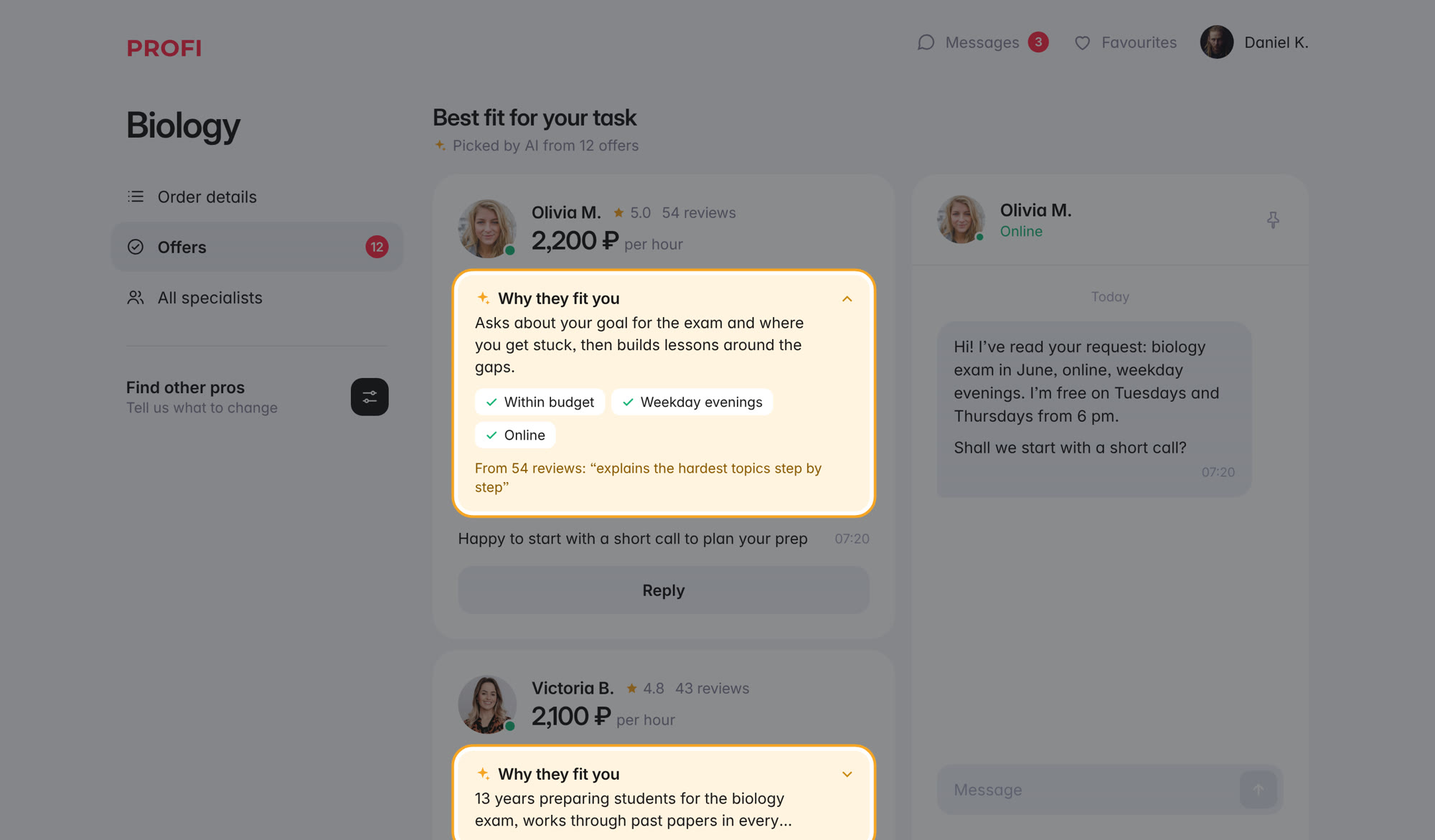
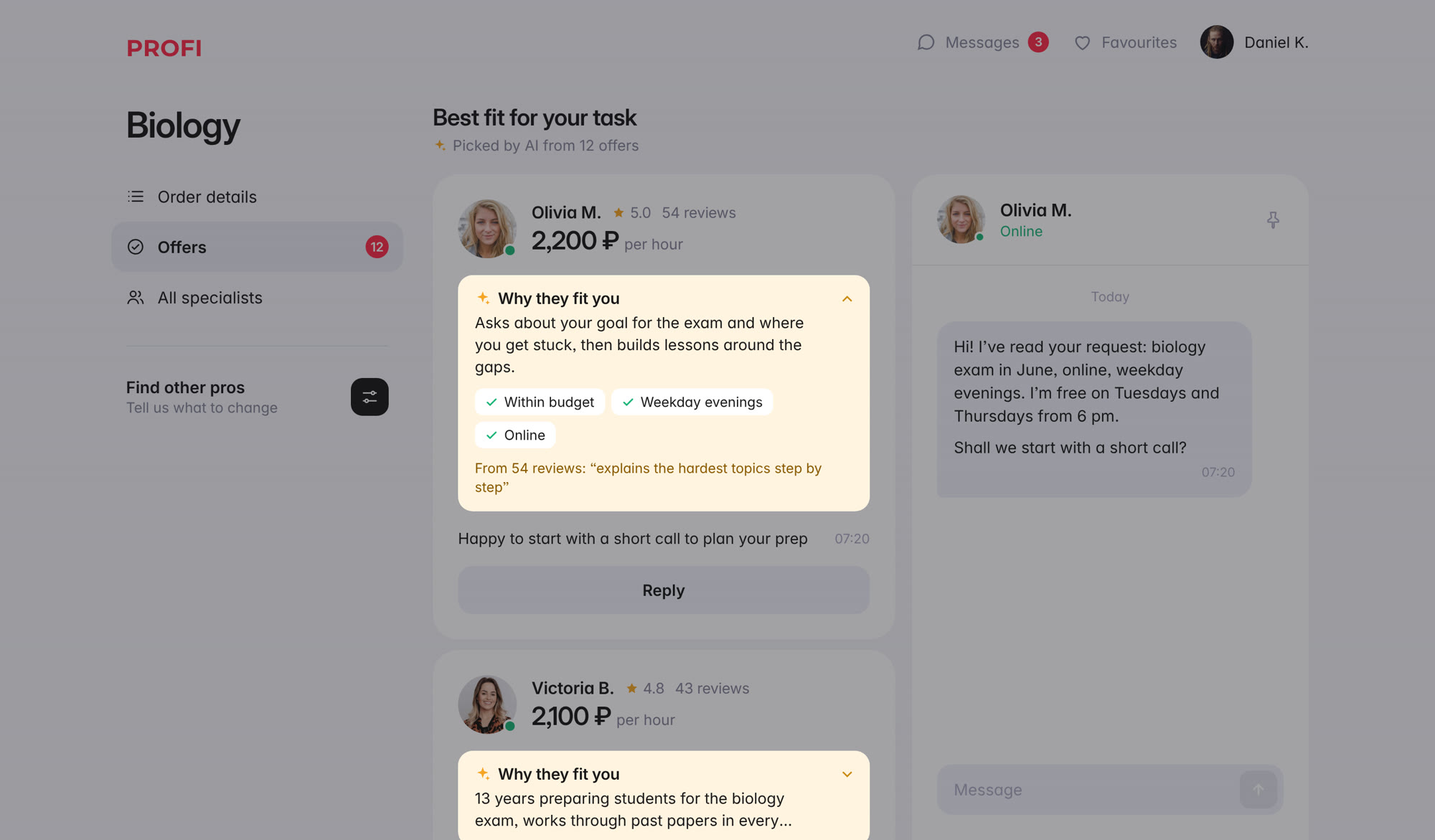
Profi case: cleaner spotlights, full-height mobile list, outcome order, balanced results labels, AI badge
Claude-Session: https://claude.ai/code/session_014rJndXE327eq2XizYZCGT6

diff --git a/case-profi.html b/case-profi.html
@@ -436,7 +436,7 @@ html.vt .item.gl-on .asset video{opacity:1!important}
   </section>
   <section class="panel">
     <p class="lbl gray">Results</p>
-    <div class="nums four"><div><b>+23.5%</b><p class="lbl">Client-to-contact<br class="mbr"> conversion</p></div><div><b>+21%</b><p class="lbl">First<br class="mbr"> shortlist</p></div><div><b>4</b><p class="lbl">Design stages,<br class="mbr"> each A/B tested</p></div><div><b>3</b><p class="lbl">Platforms: web, mobile<br class="mbr"> web, and iOS</p></div></div>
+    <div class="nums four"><div><b>+23.5%</b><p class="lbl">Client-to-contact<br>conversion</p></div><div><b>+21%</b><p class="lbl">First shortlist,<br>iteration I</p></div><div><b>4</b><p class="lbl">Iterations, each<br>A/B tested</p></div><div><b>3</b><p class="lbl">Platforms: web,<br>mobile web, and iOS</p></div></div>
   </section>
   <section class="study">
     <p class="lbl gray">Case study</p>
@@ -466,7 +466,7 @@ html.vt .item.gl-on .asset video{opacity:1!important}
 .syn[data-p="1"]{--ac:#8fb3ff}
 .syn .tb{display:flex;align-items:center;gap:12px;padding:12px 12px 12px 20px;border-bottom:1px solid var(--kl)}
 .syn .tb b{font-weight:600}
-.syn .tb small{font-size:.86em;color:var(--kg)}
+.syn .tb small{font-size:.72em;font-weight:600;letter-spacing:.04em;line-height:1;color:#f5b641;background:rgba(245,182,65,.13);padding:.35em .55em;border-radius:5px}
 .syn .md{display:flex;gap:2px;margin-left:auto;white-space:nowrap;background:var(--k1);border-radius:10px;padding:3px}
 .syn .md button{padding:.4em .85em;border-radius:7px;color:var(--kg);font-size:.9em}
 .syn .md button:hover{color:var(--kt)}
@@ -503,7 +503,7 @@ html.vt .item.gl-on .asset video{opacity:1!important}
  .syn .log{padding:18px 16px;max-height:none}.syn .sg{padding:0 16px 18px}.syn .cv{min-height:400px}
 }
 /* stages */
-.ch{margin-top:calc(10*var(--u))}
+.ch{margin-top:calc(56*var(--u))}
 .cb{display:grid;grid-template-columns:repeat(4,1fr);gap:calc(14*var(--u));align-items:end;max-width:calc(560*var(--u))}
 .cb>div{position:relative;display:flex;flex-direction:column;justify-content:flex-end;outline:none}
 .cb i{display:block;width:calc(40*var(--u));min-width:28px;background:#b9b7b0;border-radius:4px 4px 0 0;transition:opacity .2s}
@@ -532,7 +532,7 @@ html.vt .item.gl-on .asset video{opacity:1!important}
 @media (max-width:700px){.pair{grid-template-columns:1fr;gap:16px}.pair img.m{width:62%;justify-self:center}.cb{gap:10px}.ch .n{font-size:12px}.track{padding:0;grid-template-columns:1fr 1fr;row-gap:24px;margin-top:56px}.kv{grid-template-columns:1fr;gap:.2em}.kv dd{margin-bottom:.8em}}
 </style>  <section class="chap">
     <div class="ct"><p class="lbl gray">01</p><h3>Synthetic respondents</h3></div>
-    <div><p class="pull">Weak hypotheses died in a chat window, not in a two-week A/B test.</p><div class="body "><p>Before the first iteration we ran nine in-depth interviews with parents and students who had looked for a tutor on Profi, and turned two of them into synthetic respondents: AI personas on Claude, each with a system prompt built from interview quotes, habits and contradictions.</p><p>There were always more hypotheses than A/B slots. The personas let us cut weak ideas in a chat window before they took a test, in three modes: interview, prototype test and hypothesis check. I later packaged the approach as a reusable Claude skill.</p></div><ol class="pipe" aria-label="How a synthetic respondent is built"><li><em>Research</em><b>Interviews</b><span>Nine in-depth interviews</span></li><li class="ai"><em><svg viewBox="0 0 24 24" aria-hidden="true"><path d="M12 1.5l2.2 6.3 6.3 2.2-6.3 2.2L12 18.5l-2.2-6.3L3.5 10l6.3-2.2z"/></svg>AI persona</em><b>Persona prompt</b><span>Quotes, habits and deal-breakers turned into a system prompt</span></li><li class="ai"><em><svg viewBox="0 0 24 24" aria-hidden="true"><path d="M12 1.5l2.2 6.3 6.3 2.2-6.3 2.2L12 18.5l-2.2-6.3L3.5 10l6.3-2.2z"/></svg>AI session</em><b>Session mode</b><span>Interview, prototype test or hypothesis check</span></li><li class="ai"><em><svg viewBox="0 0 24 24" aria-hidden="true"><path d="M12 1.5l2.2 6.3 6.3 2.2-6.3 2.2L12 18.5l-2.2-6.3L3.5 10l6.3-2.2z"/></svg>LLM</em><b>Claude</b><span>Answers in the persona’s voice and pushes back</span></li><li><em>Team</em><b>Decision</b><span>Cut, change or send to A/B</span></li></ol><p class="lbl gray cap pcap">Built with AI end to end: three of five steps run on Claude</p><div class="syn" id="syn"><div class="tb"><b>Synthetic respondents</b><small>on Claude</small><div class="md" role="group" aria-label="Session mode"></div></div><div class="bd"><div class="pp"></div><div class="cv"></div></div></div><p class="lbl gray cap">Try it. Answers on this page paraphrase the personas’ prompts; the real tool runs live on Claude.</p><script>(function(){var P=[{"name": "Oksana", "seg": "Parent, 47", "ctx": "Looking for a maths tutor for her daughter before the final exams", "traits": [["Trusts", "Education, reviews, a friend’s advice"], ["Puts off", "Template offers, prices over 5,000"], ["Decides", "Her daughter has the last word"]], "modes": {"interview": [["How do you usually look for a tutor?", "Honestly? The dream is a friend handing me one: here, take this one. We went through three or four tutors before we found ours, my daughter kept saying she was falling asleep. So now I want to see everyone at once, not just the ones who replied. The last word is hers."], ["What do you think of the offers tutors send you?", "I barely read them. It’s dead information, he didn’t write it himself. Feels like you’re chatting with a bot."]], "prototype": [["Here’s a new screen: three tutors on top, each with “Why they fit you”. What do you do first?", "Photos, then education, then reviews, then price. If the price says 5,000 I’m gone, you can find one for 2,500. And where do I save the two I like? I want to show them to my daughter, right now I take screenshots."]], "hypothesis": [["Idea: AI picks three tutors and writes a short note on why each one fits. Would you write to one of them?", "If the note says something real, education, reviews, how they are with kids, then yes, that’s exactly “bring it to me on a plate”. If it says “a perfect fit for you”, I scroll past. That’s the same dead text as the offers."]]}}, {"name": "Roman", "seg": "Student, 17", "ctx": "Preparing for computer science and physics exams on his own, on his phone", "traits": [["Trusts", "Proven exam results, a 4.8 to 4.9 rating"], ["Puts off", "Auto-replies, reviews without results"], ["Decides", "Alone, in about fifteen minutes"]], "modes": {"interview": [["How do you choose between tutors?", "Systematically. Reviews and rating first, then who they are and their education, then price, then experience, photo last. About five profiles in fifteen minutes."], ["Why don’t you open the offers?", "Eight people wrote within a minute. Obviously an auto-reply."]], "prototype": [["Here’s the same screen on mobile. What do you look at?", "Rating and number of reviews. A 5.0 means he adapts to everyone, a 4.9 means he has character. Then I want a trial lesson. Writing the first message is a big step, I’d rather close the tab and ask my classmates."]], "hypothesis": [["Idea: AI picks three tutors and writes a short note on why each one fits. Would you write to one of them?", "Depends what’s in the note. “Explains clearly” tells me nothing. “Came with 65, passed with 89” is a reason to write. And show where it’s from, otherwise it’s just the AI talking."]]}}],COL=['#f5b641','#8fb3ff'],M=[['interview','Interview'],['prototype','Prototype test'],['hypothesis','Hypothesis check']],
+    <div><p class="pull">Weak hypotheses died in a chat window, not in a two-week A/B test.</p><div class="body "><p>Before the first iteration we ran nine in-depth interviews with parents and students who had looked for a tutor on Profi, and turned two of them into synthetic respondents: AI personas on Claude, each with a system prompt built from interview quotes, habits and contradictions.</p><p>There were always more hypotheses than A/B slots. The personas let us cut weak ideas in a chat window before they took a test, in three modes: interview, prototype test and hypothesis check. I later packaged the approach as a reusable Claude skill.</p></div><ol class="pipe" aria-label="How a synthetic respondent is built"><li><em>Research</em><b>Interviews</b><span>Nine in-depth interviews</span></li><li class="ai"><em><svg viewBox="0 0 24 24" aria-hidden="true"><path d="M12 1.5l2.2 6.3 6.3 2.2-6.3 2.2L12 18.5l-2.2-6.3L3.5 10l6.3-2.2z"/></svg>AI persona</em><b>Persona prompt</b><span>Quotes, habits and deal-breakers turned into a system prompt</span></li><li class="ai"><em><svg viewBox="0 0 24 24" aria-hidden="true"><path d="M12 1.5l2.2 6.3 6.3 2.2-6.3 2.2L12 18.5l-2.2-6.3L3.5 10l6.3-2.2z"/></svg>AI session</em><b>Session mode</b><span>Interview, prototype test or hypothesis check</span></li><li class="ai"><em><svg viewBox="0 0 24 24" aria-hidden="true"><path d="M12 1.5l2.2 6.3 6.3 2.2-6.3 2.2L12 18.5l-2.2-6.3L3.5 10l6.3-2.2z"/></svg>LLM</em><b>Claude</b><span>Answers in the persona’s voice and pushes back</span></li><li><em>Team</em><b>Decision</b><span>Cut, change or send to A/B</span></li></ol><p class="lbl gray cap pcap">Built with AI end to end: three of five steps run on Claude</p><div class="syn" id="syn"><div class="tb"><b>Synthetic respondents</b><small>AI</small><div class="md" role="group" aria-label="Session mode"></div></div><div class="bd"><div class="pp"></div><div class="cv"></div></div></div><p class="lbl gray cap">Try it. Answers on this page paraphrase the personas’ prompts; the real tool runs live on Claude.</p><script>(function(){var P=[{"name": "Oksana", "seg": "Parent, 47", "ctx": "Looking for a maths tutor for her daughter before the final exams", "traits": [["Trusts", "Education, reviews, a friend’s advice"], ["Puts off", "Template offers, prices over 5,000"], ["Decides", "Her daughter has the last word"]], "modes": {"interview": [["How do you usually look for a tutor?", "Honestly? The dream is a friend handing me one: here, take this one. We went through three or four tutors before we found ours, my daughter kept saying she was falling asleep. So now I want to see everyone at once, not just the ones who replied. The last word is hers."], ["What do you think of the offers tutors send you?", "I barely read them. It’s dead information, he didn’t write it himself. Feels like you’re chatting with a bot."]], "prototype": [["Here’s a new screen: three tutors on top, each with “Why they fit you”. What do you do first?", "Photos, then education, then reviews, then price. If the price says 5,000 I’m gone, you can find one for 2,500. And where do I save the two I like? I want to show them to my daughter, right now I take screenshots."]], "hypothesis": [["Idea: AI picks three tutors and writes a short note on why each one fits. Would you write to one of them?", "If the note says something real, education, reviews, how they are with kids, then yes, that’s exactly “bring it to me on a plate”. If it says “a perfect fit for you”, I scroll past. That’s the same dead text as the offers."]]}}, {"name": "Roman", "seg": "Student, 17", "ctx": "Preparing for computer science and physics exams on his own, on his phone", "traits": [["Trusts", "Proven exam results, a 4.8 to 4.9 rating"], ["Puts off", "Auto-replies, reviews without results"], ["Decides", "Alone, in about fifteen minutes"]], "modes": {"interview": [["How do you choose between tutors?", "Systematically. Reviews and rating first, then who they are and their education, then price, then experience, photo last. About five profiles in fifteen minutes."], ["Why don’t you open the offers?", "Eight people wrote within a minute. Obviously an auto-reply."]], "prototype": [["Here’s the same screen on mobile. What do you look at?", "Rating and number of reviews. A 5.0 means he adapts to everyone, a 4.9 means he has character. Then I want a trial lesson. Writing the first message is a big step, I’d rather close the tab and ask my classmates."]], "hypothesis": [["Idea: AI picks three tutors and writes a short note on why each one fits. Would you write to one of them?", "Depends what’s in the note. “Explains clearly” tells me nothing. “Came with 65, passed with 89” is a reason to write. And show where it’s from, otherwise it’s just the AI talking."]]}}],COL=['#f5b641','#8fb3ff'],M=[['interview','Interview'],['prototype','Prototype test'],['hypothesis','Hypothesis check']],
 r=document.getElementById('syn'),pp=r.querySelector('.pp'),cv=r.querySelector('.cv'),md=r.querySelector('.md'),cur=0,mode='hypothesis',RM=matchMedia('(prefers-reduced-motion: reduce)').matches;
 function el(t,c,x){var e=document.createElement(t);if(c)e.className=c;if(x!=null)e.textContent=x;return e}
 function turn(k,who,txt,anim){var d=el('div','t '+k+(anim?' in':''));d.appendChild(el('small',null,who));d.appendChild(el('p',null,txt));return d}
@@ -566,11 +566,11 @@ show()})();</script></div>
   </section>
   <section class="chap">
     <div class="ct"><p class="lbl gray">06</p><h3>Iteration IV: the same LLM, grounded in the client’s criteria and reviews</h3></div>
-    <div><div class="body "><p>Same model. Each explanation now lists the client’s own criteria, budget, time, format, and one fact from reviews with its source. The shortlist sits on top of the full list, and re-picking gets hint chips next to the prefilled prompt.</p></div><figure class="pair"><img class="m" src="big/profi-s4m.jpg" alt="Iteration 4 on mobile web" loading="lazy" decoding="async"><img src="big/profi-s4d.jpg" alt="Iteration 4 on desktop: explanations built from the client’s criteria and a sourced review fact" loading="lazy" decoding="async"></figure><p class="lbl gray cap">Mobile web and desktop. What changed is highlighted</p><div class="vshot"><video src="v/profi-repick.mp4" poster="v/profi-repick.jpg" muted loop playsinline preload="metadata" disablepictureinpicture aria-label="Walkthrough: re-picking specialists with a hint and a prefilled request"></video></div></div>
+    <div><div class="body "><p>Same model. Each explanation now lists the client’s own criteria, budget, time, format, and one fact from reviews with its source. The shortlist sits on top of the full list, and re-picking gets hint chips next to the prefilled prompt.</p></div><figure class="pair"><img class="m" src="big/profi-s4m.jpg" alt="Iteration 4 on mobile web" loading="lazy" decoding="async"><img src="big/profi-s4d.jpg" alt="Iteration 4 on desktop: explanations built from the client’s criteria and a sourced review fact" loading="lazy" decoding="async"></figure><p class="lbl gray cap">Mobile web and desktop. What changed is highlighted</p></div>
   </section>
   <section class="chap">
     <div class="ct"><p class="lbl gray">07</p><h3>Outcome</h3></div>
-    <div><figure class="ch" aria-label="Client-to-contact conversion lift by iteration"><div class="cb"><div class="c" tabindex="0"><span class="v">+21%</span><i style="height:calc(193.2 * var(--u))"></i><b>I</b><span class="n">Shortlist of three</span><span class="tt">Iteration I: Shortlist of three. client-to-contact conversion +21% against variant A</span></div><div class="c" tabindex="0"><span class="v">+13%</span><i style="height:calc(119.6 * var(--u))"></i><b>II</b><span class="n">Review highlights</span><span class="tt">Iteration II: Review highlights. client-to-contact conversion +13% against variant A</span></div><div class="c" tabindex="0"><span class="v">+18%</span><i style="height:calc(165.6 * var(--u))"></i><b>III</b><span class="n">LLM picks and explains</span><span class="tt">Iteration III: LLM picks and explains. client-to-contact conversion +18% against variant A</span></div><div class="c fin" tabindex="0"><span class="v">+23.5%</span><i style="height:calc(216.2 * var(--u))"></i><b>IV</b><span class="n">Same LLM, grounded</span><span class="tt">Iteration IV: Same LLM, grounded. client-to-contact conversion +23.5% against variant A</span></div></div><figcaption class="lbl gray cap">Lift in client-to-contact conversion. Each iteration was variant B in an A/B test against the original design, variant A</figcaption><table class="vh"><caption>Conversion lift by iteration</caption><tr><th>Iteration</th><th>Lift</th></tr><tr><td>I</td><td>+21%</td></tr><tr><td>II</td><td>+13%</td></tr><tr><td>III</td><td>+18%</td></tr><tr><td>IV</td><td>+23.5%</td></tr></table></figure><div class="vshot"><video src="v/profi-match.mp4" poster="v/profi-match.jpg" muted loop playsinline preload="metadata" disablepictureinpicture aria-label="Walkthrough: AI shortlist with explanations, opening a chat"></video></div></div>
+    <div><div class="vshot"><video src="v/profi-match.mp4" poster="v/profi-match.jpg" muted loop playsinline preload="metadata" disablepictureinpicture aria-label="Walkthrough: AI shortlist with explanations, opening a chat"></video></div><figure class="ch" aria-label="Client-to-contact conversion lift by iteration"><div class="cb"><div class="c" tabindex="0"><span class="v">+21%</span><i style="height:calc(193.2 * var(--u))"></i><b>I</b><span class="n">Shortlist of three</span><span class="tt">Iteration I: Shortlist of three. client-to-contact conversion +21% against variant A</span></div><div class="c" tabindex="0"><span class="v">+13%</span><i style="height:calc(119.6 * var(--u))"></i><b>II</b><span class="n">Review highlights</span><span class="tt">Iteration II: Review highlights. client-to-contact conversion +13% against variant A</span></div><div class="c" tabindex="0"><span class="v">+18%</span><i style="height:calc(165.6 * var(--u))"></i><b>III</b><span class="n">LLM picks and explains</span><span class="tt">Iteration III: LLM picks and explains. client-to-contact conversion +18% against variant A</span></div><div class="c fin" tabindex="0"><span class="v">+23.5%</span><i style="height:calc(216.2 * var(--u))"></i><b>IV</b><span class="n">Same LLM, grounded</span><span class="tt">Iteration IV: Same LLM, grounded. client-to-contact conversion +23.5% against variant A</span></div></div><figcaption class="lbl gray cap">Lift in client-to-contact conversion. Each iteration was variant B in an A/B test against the original design, variant A</figcaption><table class="vh"><caption>Conversion lift by iteration</caption><tr><th>Iteration</th><th>Lift</th></tr><tr><td>I</td><td>+21%</td></tr><tr><td>II</td><td>+13%</td></tr><tr><td>III</td><td>+18%</td></tr><tr><td>IV</td><td>+23.5%</td></tr></table></figure></div>
   </section>
   <nav class="pn">
     <a class="pv" href="case-inter-rao.html"><span class="lbl gray">Previous</span><span class="n"><span class="ar" aria-hidden="true"><svg viewBox="0 0 24 24" fill="none" stroke="currentColor" stroke-width="1.25" stroke-linecap="butt" stroke-linejoin="miter"><path d="M1 12H22"/><path d="M15 5l7 7-7 7"/></svg></span>Inter RAO</span></a>

diff --git a/_src/remotion/src/Stages.tsx b/_src/remotion/src/Stages.tsx
@@ -42,8 +42,8 @@ const Spot: React.FC<{ keys: string[] }> = ({ keys }) => {
         .filter((e) => keys.includes(e.dataset.hl || ""))
         .map((e) => {
           const b = e.getBoundingClientRect();
-          const pad = 5;
-          const br = parseFloat(getComputedStyle(e).borderTopLeftRadius) || 10;
+          const pad = Number(e.dataset.pad || 0);
+          const br = parseFloat(getComputedStyle(e).borderTopLeftRadius) || 0;
           return { x: (b.left - rb.left) / k - pad, y: (b.top - rb.top) / k - pad, w: b.width / k + pad * 2, h: b.height / k + pad * 2, r: br + pad };
         });
       setRects(rs);
@@ -60,8 +60,7 @@ const Spot: React.FC<{ keys: string[] }> = ({ keys }) => {
             {rects.map((r, i) => <rect key={i} x={r.x} y={r.y} width={r.w} height={r.h} rx={r.r} fill="#000" />)}
           </mask>
         </defs>
-        <rect width="100%" height="100%" fill="rgba(22,23,28,.5)" mask="url(#spotmask)" />
-        {rects.map((r, i) => <rect key={i} x={r.x} y={r.y} width={r.w} height={r.h} rx={r.r} fill="none" stroke="#f5a524" strokeWidth={2.5} />)}
+        <rect width="100%" height="100%" fill="rgba(22,23,28,.4)" mask="url(#spotmask)" />
       </svg>
     </div>
   );
@@ -110,7 +109,7 @@ const MENU: [string, string][] = [
   ["All specialists", "M9 4.5a3.5 3.5 0 100 7 3.5 3.5 0 000-7zM2.5 20c.8-3.6 3.4-5.5 6.5-5.5s5.7 1.9 6.5 5.5M16 4.8a3.5 3.5 0 010 6.4M18.5 14.8c1.6.8 2.7 2.5 3 5.2"],
 ];
 const Repick: React.FC = () => (
-  <div data-hl="repick" style={{ display: "flex", alignItems: "center", justifyContent: "space-between", height: 60, borderRadius: 12 }}>
+  <div data-hl="repick" data-pad="10" style={{ display: "flex", alignItems: "center", justifyContent: "space-between", height: 60, borderRadius: 12 }}>
     <div>
       <div style={{ fontSize: 15.5, fontWeight: 600 }}>Find other pros</div>
       <div style={{ fontSize: 13.5, color: C.ink2, marginTop: 2 }}>Tell us what to change</div>
@@ -247,10 +246,10 @@ const desk1 = (
 );
 
 const desk2 = (
-  <DeskShell spot={["head", "praise", "more", "repick"]}
+  <DeskShell spot={["card2", "repick"]}
     side={<Repick />}
     mid={
-      <div style={{ background: "#fff", borderRadius: 24, padding: "22px 20px 10px" }}>
+      <div data-hl="card2" style={{ background: "#fff", borderRadius: 24, padding: "22px 20px 10px" }}>
         <Head t="Best fit for your task" s="Top by experience and reviews" />
         {ROWS.slice(0, 3).map((r, i) => <ListRow key={r.name} r={r} sel={i === 0} praise={PRAISE[i]} />)}
         <div data-hl="more" style={{ display: "flex", alignItems: "center", justifyContent: "space-between", borderTop: `1px solid ${C.line}`, margin: "10px 0 0", padding: "16px 2px 8px" }}>
@@ -328,9 +327,9 @@ const Btn: React.FC<{ t: string }> = ({ t }) => (
 
 const mob0 = (
   <Phone>
-    <div style={{ background: C.bg, padding: "12px 0" }}>
+    <div style={{ background: C.bg, padding: "12px 0 0", height: "100%", display: "flex", flexDirection: "column" }}>
       <div style={{ background: "#fff", padding: "14px 20px", borderRadius: "0 0 22px 22px" }}><Toggle /></div>
-      <div style={{ background: "#fff", borderRadius: 22, marginTop: 10, padding: "16px 20px" }}>
+      <div style={{ background: "#fff", borderRadius: "22px 22px 0 0", marginTop: 10, padding: "16px 20px", flex: 1 }}>
         <div style={{ display: "flex", justifyContent: "space-between", fontSize: 17, fontWeight: 600, paddingBottom: 6 }}>Offers <span style={{ color: C.hint, fontWeight: 400 }}>9</span></div>
         {ROWS.map((r) => <ListRow key={r.name} r={r} m />)}
       </div>
@@ -340,9 +339,9 @@ const mob0 = (
 
 const mob1 = (
   <Phone spot={["block"]}>
-    <div style={{ background: C.bg, padding: "12px 0" }}>
+    <div style={{ background: C.bg, padding: "12px 0 0", height: "100%", display: "flex", flexDirection: "column" }}>
       <div style={{ background: "#fff", padding: "14px 20px", display: "flex", justifyContent: "space-between", alignItems: "center", borderRadius: "0 0 22px 22px" }}><Toggle /></div>
-      <div style={{ background: "#fff", borderRadius: 22, marginTop: 10, padding: "16px 12px" }}>
+      <div style={{ background: "#fff", borderRadius: "22px 22px 0 0", marginTop: 10, padding: "16px 12px", flex: 1 }}>
         <div style={{ display: "flex", justifyContent: "space-between", fontSize: 17, fontWeight: 600, padding: "0 8px 10px" }}>Offers <span style={{ color: C.hint, fontWeight: 400 }}>9</span></div>
         <div data-hl="block" style={{ background: C.ctl, borderRadius: 18, padding: "12px 12px 2px" }}>
           <div style={{ fontSize: 13, fontWeight: 600 }}>Best match for your task</div>

diff --git a/_src/build.py b/_src/build.py
@@ -1150,7 +1150,7 @@ SR_CSS = """<style>
 .syn[data-p="1"]{--ac:#8fb3ff}
 .syn .tb{display:flex;align-items:center;gap:12px;padding:12px 12px 12px 20px;border-bottom:1px solid var(--kl)}
 .syn .tb b{font-weight:600}
-.syn .tb small{font-size:.86em;color:var(--kg)}
+.syn .tb small{font-size:.72em;font-weight:600;letter-spacing:.04em;line-height:1;color:#f5b641;background:rgba(245,182,65,.13);padding:.35em .55em;border-radius:5px}
 .syn .md{display:flex;gap:2px;margin-left:auto;white-space:nowrap;background:var(--k1);border-radius:10px;padding:3px}
 .syn .md button{padding:.4em .85em;border-radius:7px;color:var(--kg);font-size:.9em}
 .syn .md button:hover{color:var(--kt)}
@@ -1187,7 +1187,7 @@ SR_CSS = """<style>
  .syn .log{padding:18px 16px;max-height:none}.syn .sg{padding:0 16px 18px}.syn .cv{min-height:400px}
 }
 /* stages */
-.ch{margin-top:calc(10*var(--u))}
+.ch{margin-top:calc(56*var(--u))}
 .cb{display:grid;grid-template-columns:repeat(4,1fr);gap:calc(14*var(--u));align-items:end;max-width:calc(560*var(--u))}
 .cb>div{position:relative;display:flex;flex-direction:column;justify-content:flex-end;outline:none}
 .cb i{display:block;width:calc(40*var(--u));min-width:28px;background:#b9b7b0;border-radius:4px 4px 0 0;transition:opacity .2s}
@@ -1255,7 +1255,7 @@ PULLS.update({
 })
 
 def profi_content():
-    syn = ('<div class="syn" id="syn"><div class="tb"><b>Synthetic respondents</b><small>on Claude</small><div class="md" role="group" aria-label="Session mode"></div></div>'
+    syn = ('<div class="syn" id="syn"><div class="tb"><b>Synthetic respondents</b><small>AI</small><div class="md" role="group" aria-label="Session mode"></div></div>'
            '<div class="bd"><div class="pp"></div><div class="cv"></div></div></div>'
            '<p class="lbl gray cap">Try it. Answers on this page paraphrase the personas’ prompts; the real tool runs live on Claude.</p>'
            + SR_JS.replace("__P__", json.dumps(PERSONAS, ensure_ascii=False)))
@@ -1283,8 +1283,8 @@ def profi_content():
                       "Tutoring is one of its biggest verticals. That’s where I worked, in the growth team."))) +
       role(body(ps("Senior Product Designer in the tutoring vertical. I owned the AI matching experience end to end on web, mobile web, and iOS, together with a product manager, analysts and engineers.",
                    "The work went from interviews and usability tests to A/B tests on the internal experiment platform, and prototypes I built in code with Claude and Claude Code."))) +
-      results(nums([("+23.5%", "Client-to-contact<mbr>conversion", ""), ("+21%", "First<mbr>shortlist", ""),
-                    ("4", "Design stages,<mbr>each A/B tested", ""), ("3", "Platforms: web, mobile<mbr>web, and iOS", "")], "four")) +
+      results(nums([("+23.5%", "Client-to-contact<br>conversion", ""), ("+21%", "First shortlist,<br>iteration I", ""),
+                    ("4", "Iterations, each<br>A/B tested", ""), ("3", "Platforms: web,<br>mobile web, and iOS", "")], "four")) +
       study('<p class="state">Teaching an LLM to pick a tutor, and earning the client’s trust in that pick</p>' +
             body(ps("A client posts a request and gets a stream of offers, often more than they can read. Many read a few and never write to anyone. The gap between interest in a specialist and the first message was the biggest drop in the funnel.",
                     "The idea was to let the product do the first round of choosing: show the best few offers for this task, say why each one fits, and let the client ask for others in plain words. It took four stages to get there. Before the first one, we went and listened."))) +
@@ -1295,9 +1295,8 @@ def profi_content():
       chapter("Iteration I: a shortlist of three above the offers", body(ps("When a request collects eight or more offers, the list opens with a block of three that have the best reviews on similar tasks. The rest of the list stays as it was.")) + pair(1, "a shortlist of three best-matched offers on top of the list")) +
       chapter("Iteration II: reasons from reviews and a form to ask for others", body(ps("Each pick shows what clients praise the tutor for, taken from reviews. The block gets a clear name, other offers fold under “More specialists”, and “Find other pros” opens a short form that starts a new search.")) + pair(2, "review highlights under each tutor and a form to find other pros")) +
       chapter("Iteration III: an LLM picks the three and explains why", body(ps("An LLM ranks the offers against the task the client wrote and adds “Why they fit you” to each pick. “Find other pros” becomes a prompt, prefilled from the order, so the client edits it and the LLM picks again.")) + pair(3, "LLM explanations on each card and a prompt to re-pick")) +
-      chapter("Iteration IV: the same LLM, grounded in the client’s criteria and reviews", body(ps("Same model. Each explanation now lists the client’s own criteria, budget, time, format, and one fact from reviews with its source. The shortlist sits on top of the full list, and re-picking gets hint chips next to the prefilled prompt.")) + pair(4, "explanations built from the client’s criteria and a sourced review fact") +
-               pvid("profi-repick", "Walkthrough: re-picking specialists with a hint and a prefilled request")) +
-      chapter("Outcome", chart + pvid("profi-match", "Walkthrough: AI shortlist with explanations, opening a chat"))
+      chapter("Iteration IV: the same LLM, grounded in the client’s criteria and reviews", body(ps("Same model. Each explanation now lists the client’s own criteria, budget, time, format, and one fact from reviews with its source. The shortlist sits on top of the full list, and re-picking gets hint chips next to the prefilled prompt.")) + pair(4, "explanations built from the client’s criteria and a sourced review fact")) +
+      chapter("Outcome", pvid("profi-match", "Walkthrough: AI shortlist with explanations, opening a chat") + chart)
     )
 
 def case(i):
